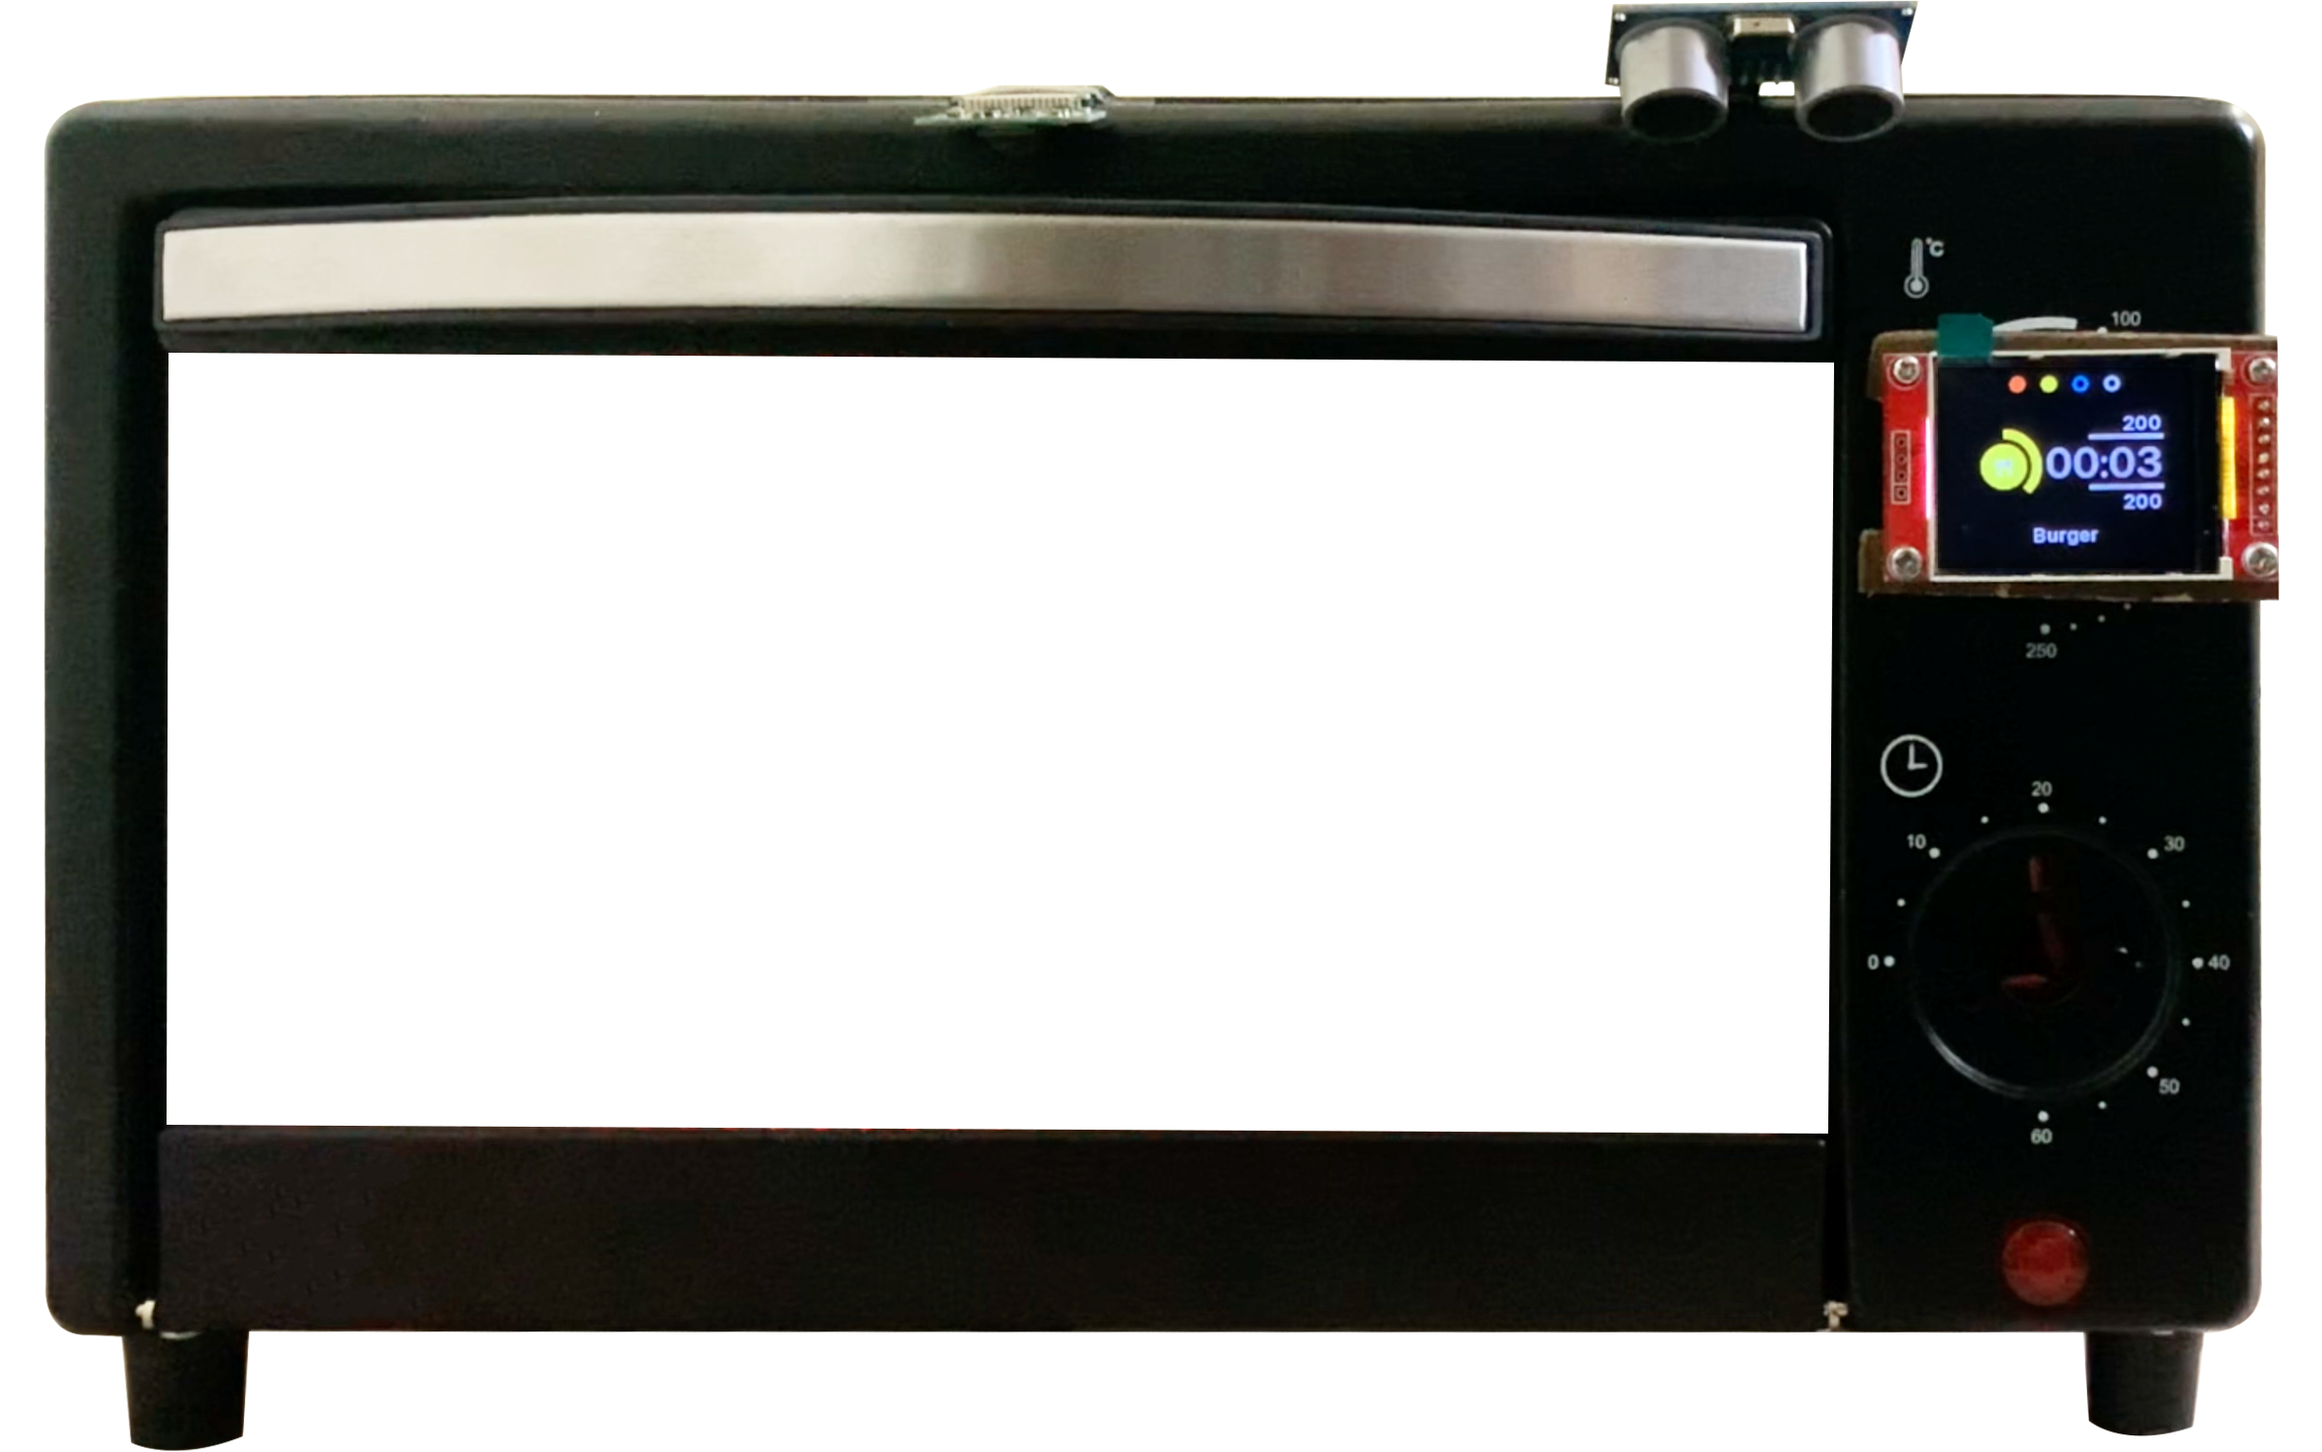
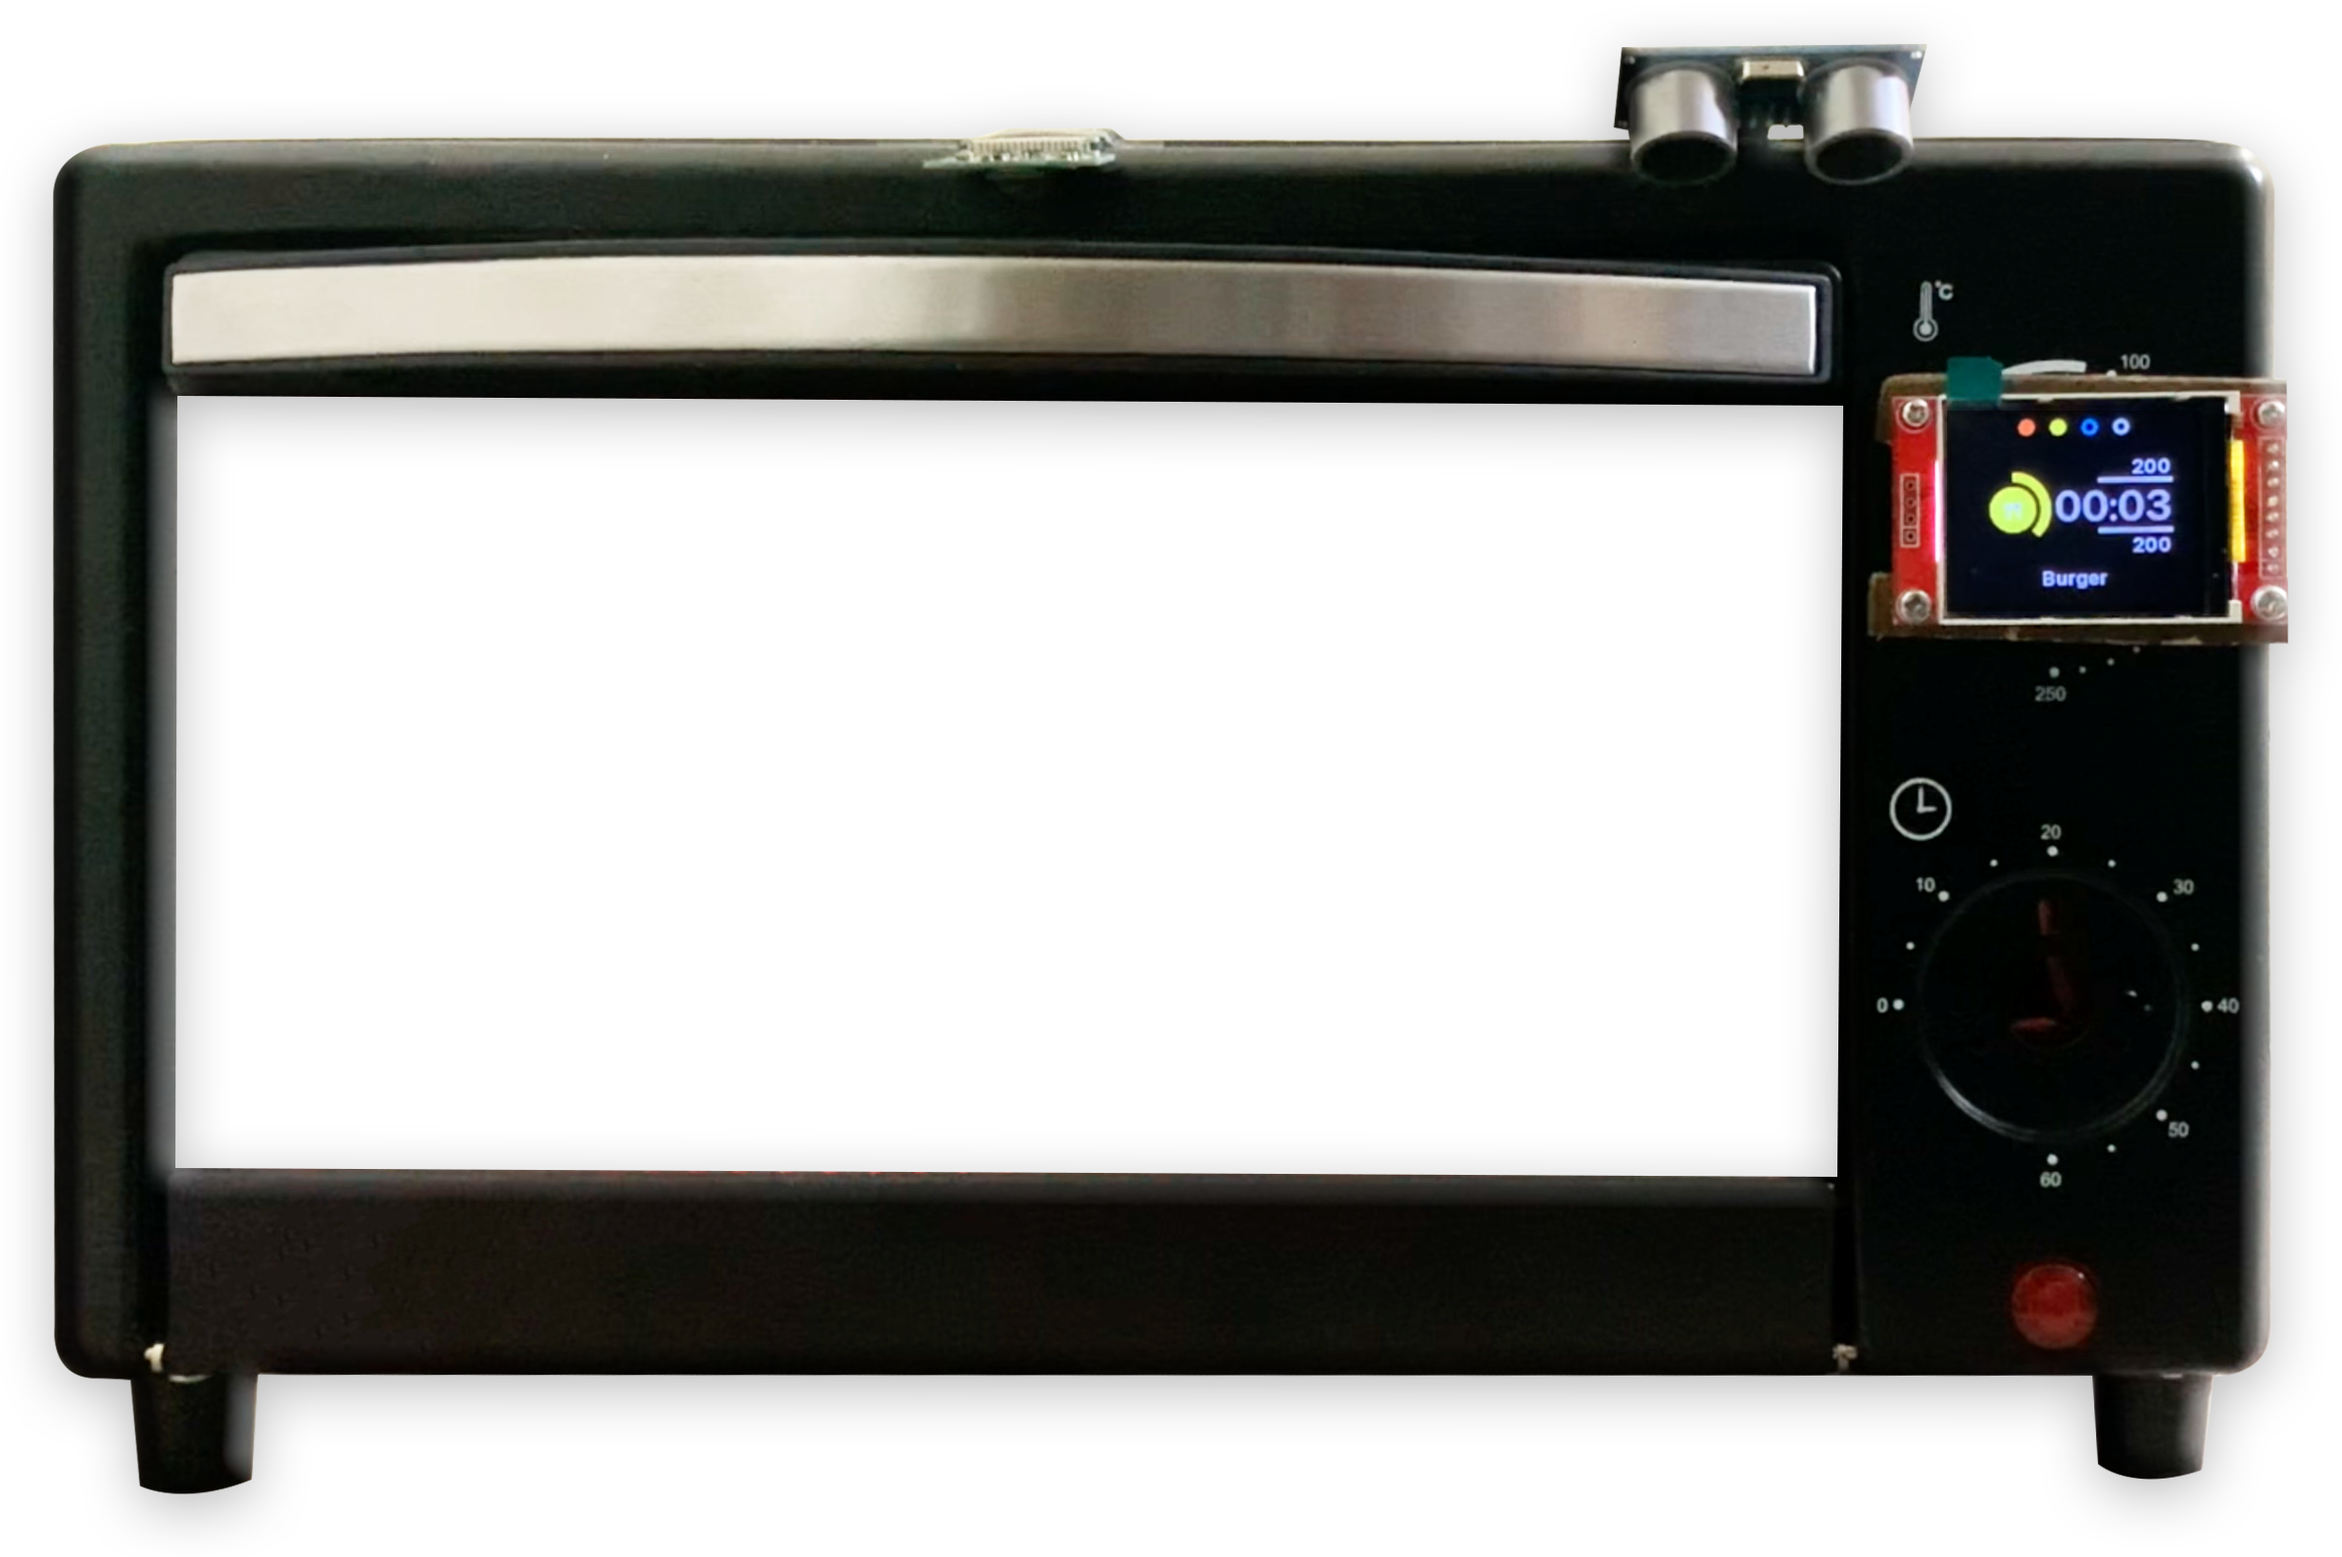
slide 3 exit

Changed region(s): [[0.0, 0.0, 0.9992, 1.0], [0.8743, 0.5277, 0.9055, 0.5587], [0.843, 0.6518, 0.8743, 0.6829]]

diff --git a/src/App.css b/src/App.css
@@ -67,7 +67,8 @@ section {
   text-shadow: 0px 4px 12px rgba(0, 0, 0, 0.253);
 }
 
-.slide-2 {
+.slide-2,
+.slide-3 {
   background-color: white;
   height: 150vh;
 }
@@ -130,9 +131,8 @@ section {
   /* height: 40px;
   width: 40px; */
   padding: 15px;
-  /* border-radius: 50px;
-  border: 2px solid black; */
-  background-color: white;
+  border-radius: 50px;
+  /* border: 2px solid black; */
   margin: 10px;
   position: relative;
 }
@@ -151,12 +151,19 @@ section {
   border-radius: 16px;
   position: absolute;
   z-index: 1;
-  left:0;
-  margin-top: -30px; 
+  left: 0;
+  margin-top: -30px;
   font-size: 14px;
   font-weight: 600;
 }
 
 .tech-badge-container:hover .tooltiptext {
   visibility: visible;
+}
+
+.oven-screenshot {
+  height: 80vh;
+  transform: rotate(-30deg);
+  margin-top: 10vh;
+  margin:25px;
 }
